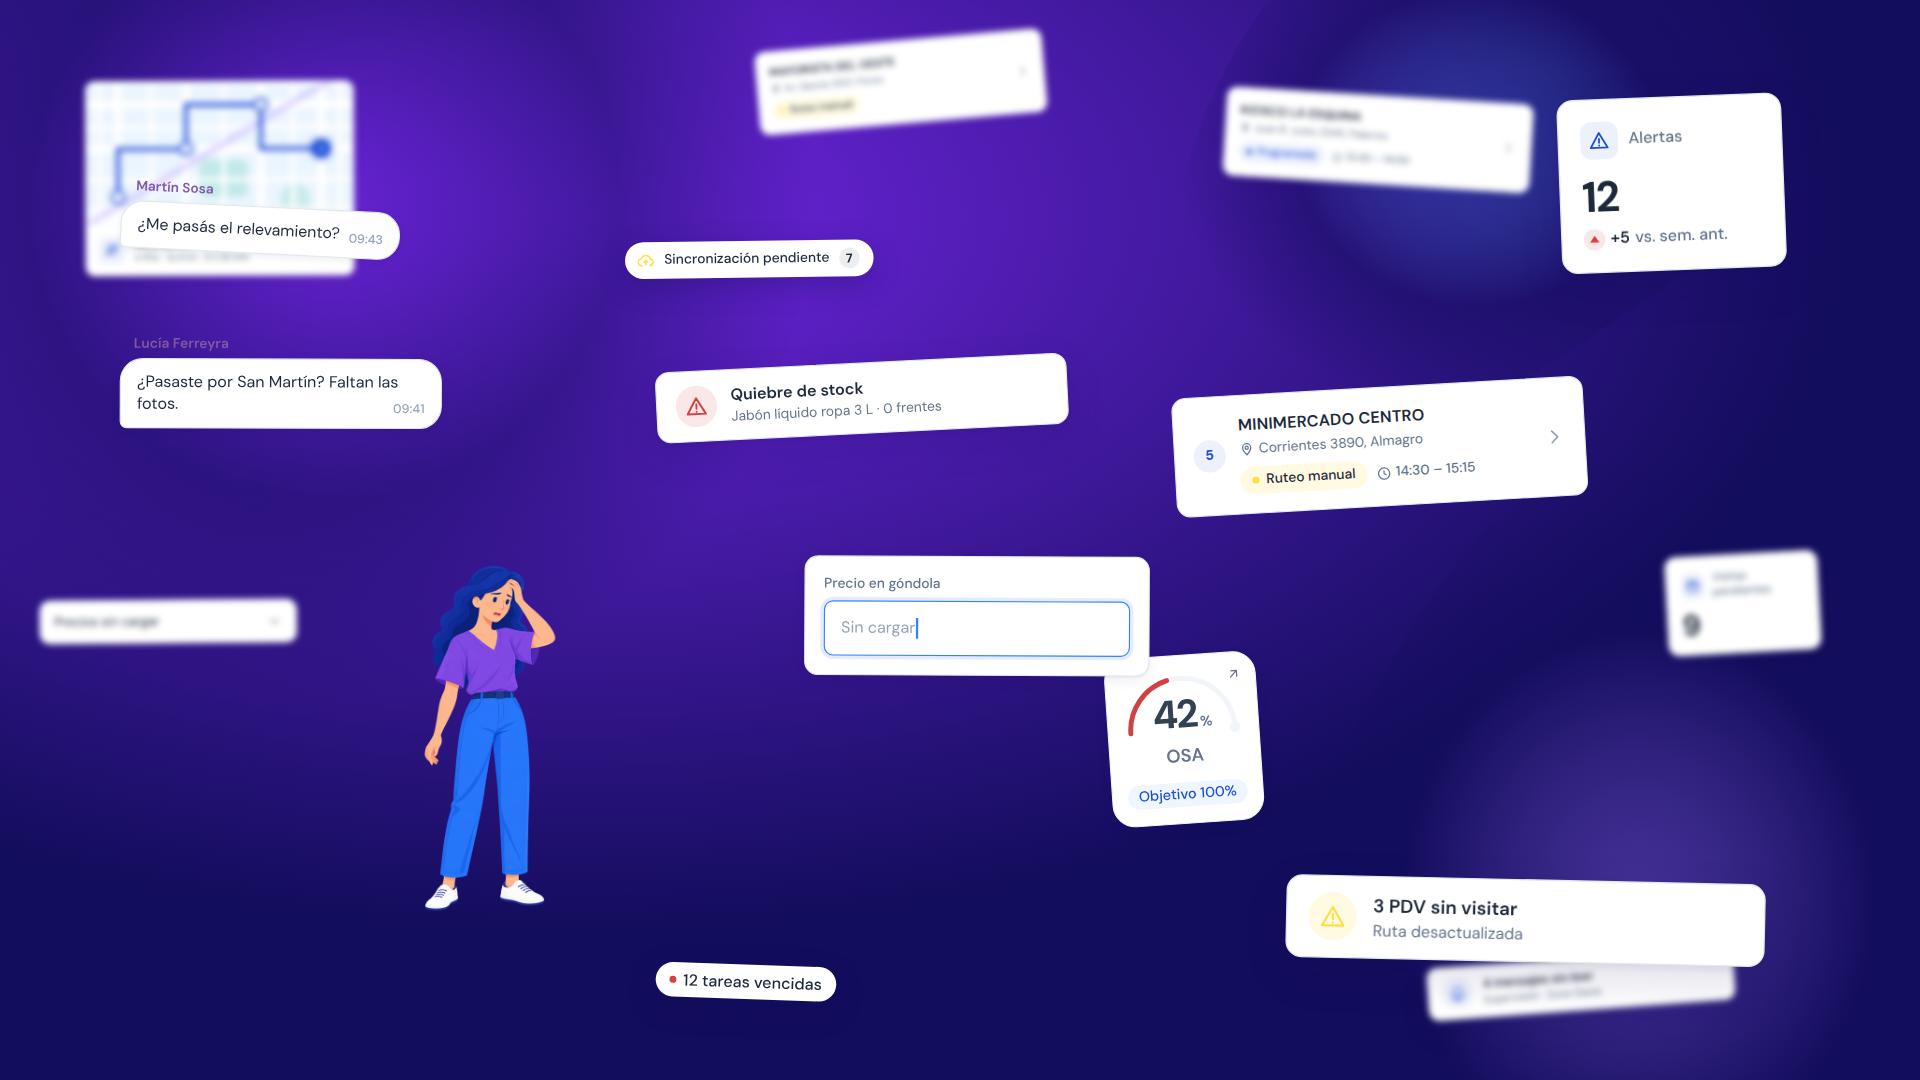
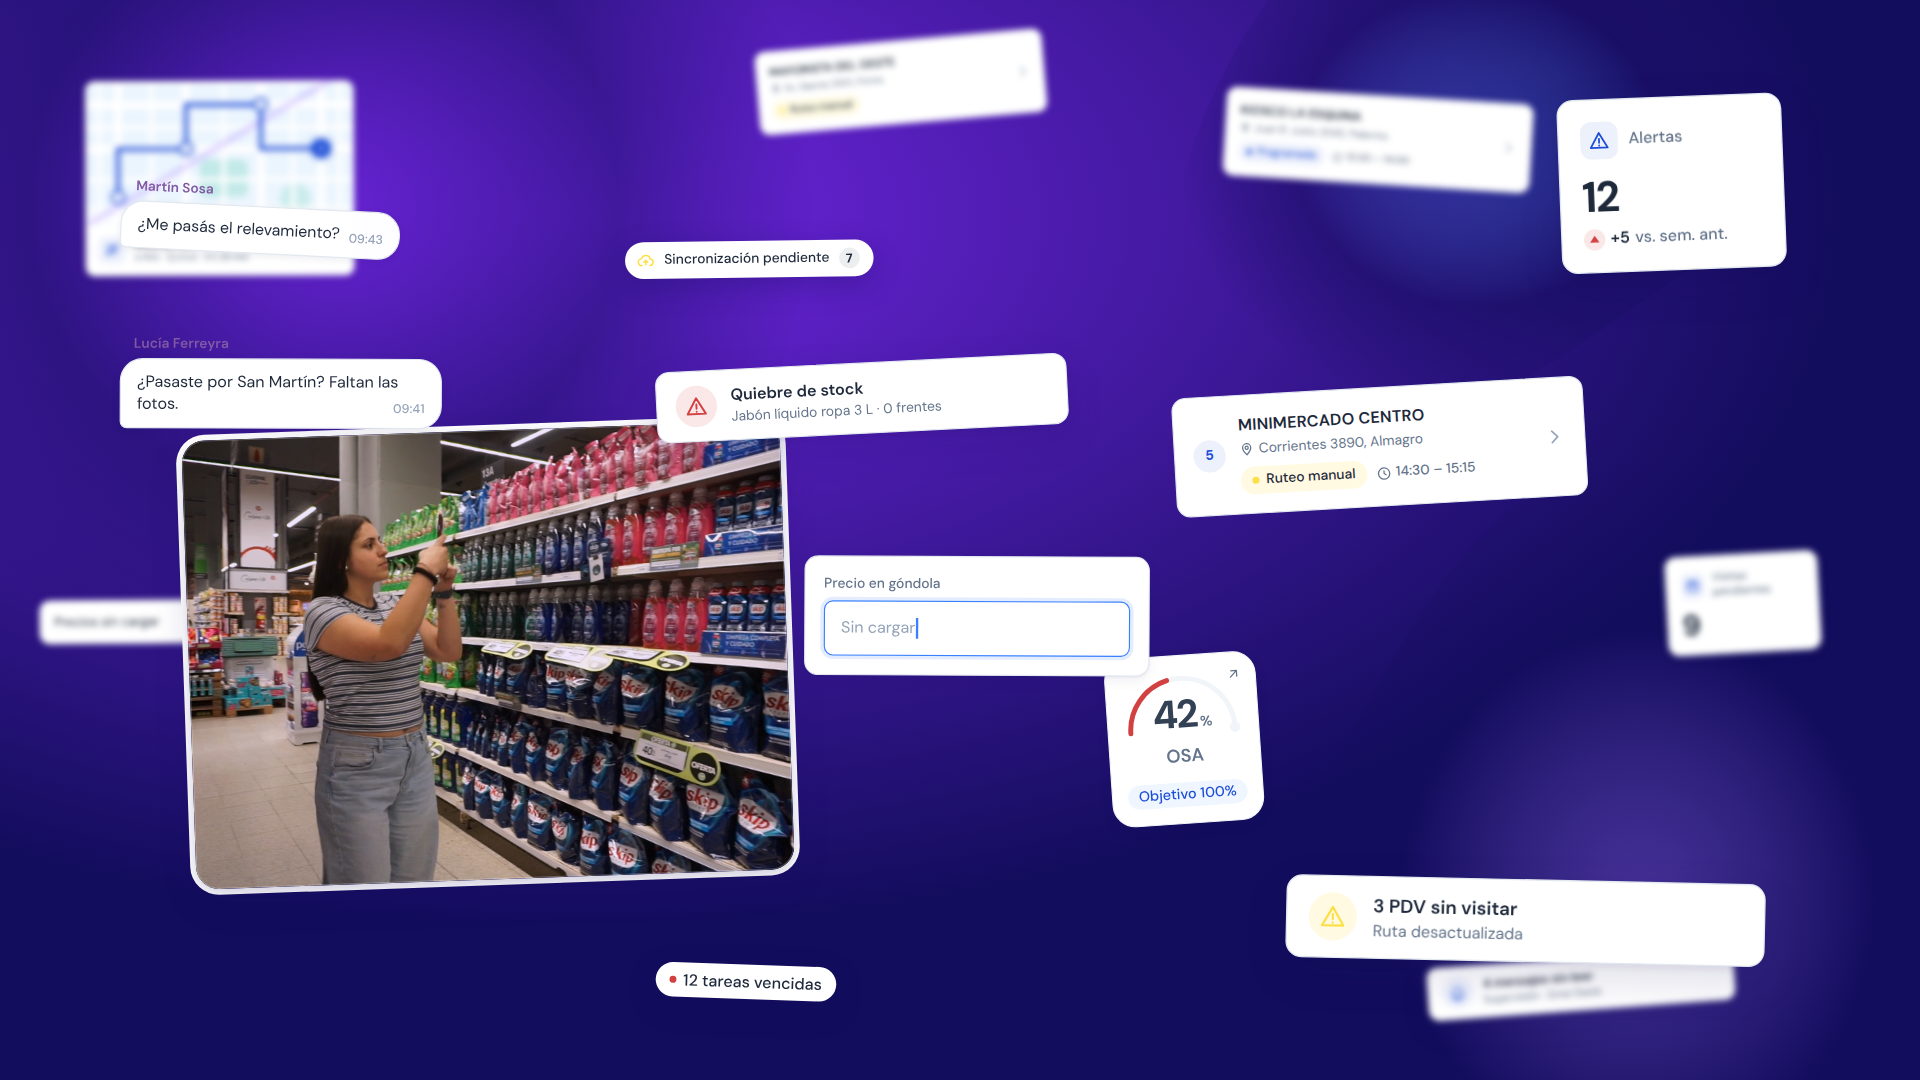
feat(qs-brand-animation): dirección v2, producto con material real de campo
- Sin personajes ilustrados: PSMob protagonista y personas reales enmascaradas
- public/footage: 2 videos (login/ingreso, pasillo/foto de góndola) y 7 fotos
- src/footage.ts con los momentos de cada clip; FootageCard (card o círculo, video o foto, playbackRate)
- Escena 1 rehecha con el pasillo real en card de video; style frame actualizado
- Storyboard: escenas 1, 3, 6 y 9 con material real, marcas reales permitidas

Claude-Session: https://claude.ai/code/session_01TCZn7RvVYdz1ZuWFcgayG7

Changed region(s): [[0.0938, 0.3667, 0.4375, 0.8556]]

diff --git a/projects/qs-brand-animation/src/ui/FootageCard.tsx b/projects/qs-brand-animation/src/ui/FootageCard.tsx
@@ -1,0 +1,68 @@
+import React from 'react';
+import { Img, OffthreadVideo, staticFile, useVideoConfig } from 'remotion';
+import { alpha, colors, radius, shadows } from '../tokens';
+import { enterStyle } from '../lib/easing';
+import { CLIPS, ClipId, PHOTOS, PhotoId } from '../footage';
+
+/** from: segundo del clip donde arranca · rate: velocidad (0.5 = cámara lenta, estira planos cortos) */
+type Source = { clip: ClipId; from?: number; rate?: number } | { photo: PhotoId };
+
+type Props = Source & {
+  width: number;
+  /** alto; si no se pasa, sale de la proporción del material */
+  height?: number;
+  shape?: 'card' | 'circle';
+  /** punto de encuadre del material (object-position), para que cara/manos/celular queden adentro */
+  focus?: string;
+  /** zoom sobre el material (1 = cover) */
+  zoom?: number;
+  progress?: number;
+  /** tinte del arco (problema = violeta leve) para integrar el material al fondo */
+  tint?: string;
+  border?: boolean;
+  style?: React.CSSProperties;
+};
+
+/**
+ * Material real enmascarado: card de video o círculo con borde blanco y sombra suave.
+ * Las personas nunca van a pantalla completa (dirección v2).
+ */
+export const FootageCard: React.FC<Props> = (props) => {
+  const { width, shape = 'card', focus = '50% 50%', zoom = 1, progress = 1, tint, border = true, style } = props;
+  const { fps } = useVideoConfig();
+  const meta = 'clip' in props ? CLIPS[props.clip] : PHOTOS[props.photo];
+  const height = props.height ?? (shape === 'circle' ? width : (width * meta.h) / meta.w);
+  const media: React.CSSProperties = {
+    width: '100%',
+    height: '100%',
+    objectFit: 'cover',
+    objectPosition: focus,
+    transform: `scale(${zoom})`,
+    transformOrigin: focus,
+    display: 'block',
+  };
+  return (
+    <div
+      style={{
+        width,
+        height,
+        borderRadius: shape === 'circle' ? '50%' : radius.lg,
+        overflow: 'hidden',
+        position: 'relative',
+        background: colors.dark,
+        boxShadow: `${shadows.float}${border ? `, 0 0 0 ${shape === 'circle' ? 6 : 5}px ${colors.white}` : ''}`,
+        isolation: 'isolate',
+        ...enterStyle(progress, 20),
+        ...style,
+      }}
+    >
+      {'clip' in props ? (
+        <OffthreadVideo src={staticFile(CLIPS[props.clip].src)} startFrom={Math.round((props.from ?? 0) * fps)} playbackRate={props.rate ?? 1} muted style={media} />
+      ) : (
+        <Img src={staticFile(PHOTOS[props.photo].src)} style={media} />
+      )}
+      {tint && <div style={{ position: 'absolute', inset: 0, background: tint, mixBlendMode: 'multiply' }} />}
+      <div style={{ position: 'absolute', inset: 0, borderRadius: 'inherit', boxShadow: `inset 0 0 0 1px ${alpha(colors.white, 0.25)}` }} />
+    </div>
+  );
+};

diff --git a/projects/qs-brand-animation/src/scenes/S01Problema.tsx b/projects/qs-brand-animation/src/scenes/S01Problema.tsx
@@ -2,15 +2,16 @@ import React from 'react';
 import { AbsoluteFill, useCurrentFrame, useVideoConfig } from 'remotion';
 import { Camera, CameraKeyframe, DepthBlur, DepthLayer, Place } from '../camera';
 import { GradientBackground } from '../shapes/GradientBackground';
-import { Character } from '../characters/Character';
+import { CLIPS } from '../footage';
+import { alpha, colors } from '../tokens';
 import { ObjectWipe } from '../transitions/ObjectWipe';
 import { drift, progressAt } from '../lib/easing';
 import { randSigned } from '../lib/random';
-import { Badge, CategoryAccordion, ChartCard, ChatBubble, FormField, GaugeCard, KPI, ListRow, MapCard, PDVS, SyncIndicator, Toast, Card } from '../ui';
+import { Badge, CategoryAccordion, ChartCard, ChatBubble, FormField, FootageCard, GaugeCard, KPI, ListRow, MapCard, PDVS, SyncIndicator, Toast, Card } from '../ui';
 
 /**
- * Escena 1 · Problema (4.5 s). Caro chica en una composición amplia; la UI de su día se acumula en profundidad.
- * La sobrecarga solo crece: Caro queda en `estres` toda la escena y las cards entran cada vez más seguido.
+ * Escena 1 · Problema (4.5 s). El pasillo real (card de video enmascarada) chico en una composición amplia;
+ * la UI del día se acumula en profundidad y lo va tapando. La sobrecarga solo crece: las cards entran cada vez más seguido.
  */
 export const S01_DURATION = 4.5;
 
@@ -73,7 +74,9 @@ export const S01Problema: React.FC = () => {
           <DepthBlur amount={3}>{layer('bg')}</DepthBlur>
         </DepthLayer>
         <DepthLayer depth="mg">
-          <Character who="caro" pose="estres" height={300} x={600} y={860} phase={0.4} />
+          <Place x={600} y={640} rotate={-2}>
+            <FootageCard clip="pasilloFoto" from={CLIPS.pasilloFoto.moments.pasillo} rate={0.5} width={520} progress={progressAt(frame, 0.1, 0.7, 'settle', fps)} tint={alpha(colors.secondary, 0.18)} />
+          </Place>
           {layer('mg')}
         </DepthLayer>
         <DepthLayer depth="fg">{layer('fg')}</DepthLayer>

diff --git a/projects/qs-brand-animation/src/footage.ts b/projects/qs-brand-animation/src/footage.ts
@@ -1,0 +1,49 @@
+/**
+ * Material real de campo (public/footage). Las personas aparecen solo acá, siempre enmascaradas.
+ * Los tiempos de cada momento están en segundos del clip original (25 fps).
+ */
+export const CLIPS = {
+  loginIngreso: {
+    src: 'footage/login-ingreso.mp4',
+    w: 1440,
+    h: 1080,
+    fps: 25,
+    duration: 17,
+    moments: {
+      /** manos con el celular: login en PSMob y carga */
+      login: 0,
+      /** pantalla azul de PSMob cargando */
+      cargando: 7,
+      /** entra al supermercado y sonríe */
+      ingreso: 14,
+    },
+  },
+  pasilloFoto: {
+    src: 'footage/pasillo-foto-gondola.mp4',
+    w: 1440,
+    h: 1080,
+    fps: 25,
+    duration: 10,
+    moments: {
+      /** pasillo abierto, góndola llena */
+      pasillo: 0,
+      /** levanta el celular y saca la foto */
+      foto: 5,
+    },
+  },
+} as const;
+
+export type ClipId = keyof typeof CLIPS;
+
+export const PHOTOS = {
+  reconocimiento: { src: 'footage/reconocimiento-en-uso.jpg', w: 2000, h: 1125 },
+  shampoo: { src: 'footage/repositora-gondola-shampoo.jpg', w: 2000, h: 1125 },
+  planograma: { src: 'footage/foto-planograma.jpg', w: 2000, h: 1125 },
+  fotografia: { src: 'footage/repositora-fotografia-gondola.jpg', w: 2000, h: 1125 },
+  sedal: { src: 'footage/repositora-sedal-sonrie.jpg', w: 2000, h: 1125 },
+  /** baja resolución (360 px): solo en tamaños chicos */
+  verticalA: { src: 'footage/foto-gondola-vertical-a.jpg', w: 360, h: 638 },
+  verticalB: { src: 'footage/foto-gondola-vertical-b.jpg', w: 360, h: 640 },
+} as const;
+
+export type PhotoId = keyof typeof PHOTOS;

diff --git a/projects/qs-brand-animation/src/ui/index.ts b/projects/qs-brand-animation/src/ui/index.ts
@@ -23,3 +23,4 @@ export * from './Gauge';
 export * from './CategoryAccordion';
 export * from './Dashboard';
 export * from './CameraScreen';
+export * from './FootageCard';

diff --git a/projects/qs-brand-animation/STORYBOARD.md b/projects/qs-brand-animation/STORYBOARD.md
@@ -2,6 +2,8 @@
 
 Fase 1. Fuente de verdad del timing: `src/timeline.ts`. Los markers de sonido salen de `src/markers.ts` (`npm run export-markers`).
 
+> **Dirección v2 (aprobada):** video de producto. PSMob es el protagonista y no hay personajes ilustrados. Las personas aparecen solo en material real de campo (`public/footage`), siempre enmascaradas en círculos, cards de video o la pantalla de un device, nunca a pantalla completa. Las marcas reales del material se dejan: es material real y tiene que verse realista.
+
 - **Duración:** 65,9 s. El brief pedía unos 68; se ajusta cuando llegue la VO.
 - **Frames:** van a 30 fps (animatic). A 60 fps se duplican; los segundos no cambian.
 - **Cámara:** `x`, `y` en px de mundo (1920×1080, centro 960/540) y `zoom`. Curva `easeInOut` salvo que se indique otra.
@@ -10,17 +12,17 @@ Fase 1. Fuente de verdad del timing: `src/timeline.ts`. Los markers de sonido sa
 
 ## Resumen
 
-| # | Escena | s | frames @30 | Entrada | Salida | Overlap | Personajes |
+| # | Escena | s | frames @30 | Entrada | Salida | Overlap | Material real |
 |---|---|---|---|---|---|---|---|
-| 1 | Problema | 0.0–4.5 | 0–134 | — | object wipe (card) | 0 | Caro |
+| 1 | Problema | 0.0–4.5 | 0–134 | — | object wipe (card) | 0 | pasillo (video B 0–4 s) |
 | 2 | Complejidad | 4.5–8.5 | 135–254 | object wipe | shape morph (compresión) | 0 | — |
-| 3 | Aparece QuartzSales | 8.5–13.0 | 255–389 | shape morph | zoom through | 0 | — |
+| 3 | Aparece QuartzSales | 8.5–13.0 | 255–389 | shape morph | zoom through | 0 | login en PSMob (video A 0–6 s) |
 | 4 | Planificación | 13.0–18.0 | 390–539 | zoom through | match cut (pin) | 0 | — |
 | 5 | Ruteo | 18.0–23.0 | 540–689 | match cut | shape morph (línea de ruta) | 0.4 | — |
-| 6 | Comunicación | 22.6–27.6 | 678–827 | shape morph | shape morph (mensaje → form) | 0.4 | Nico fg · Caro bg |
+| 6 | Comunicación | 22.6–27.6 | 678–827 | shape morph | shape morph (mensaje → form) | 0.4 | 2 avatares circulares (fotos 7 y 10) |
 | 7 | Captura de datos | 27.2–32.2 | 816–965 | shape morph | push-out | 0.3 | — |
 | 8 | Tiempo real | 31.9–37.9 | 957–1136 | push-out | shape morph (gráfico → góndola) | 0.5 | — |
-| 9 | AiFred | 37.4–42.4 | 1122–1271 | shape morph | zoom through | 0 | Nico |
+| 9 | AiFred | 37.4–42.4 | 1122–1271 | shape morph | zoom through | 0 | foto de góndola (video B 5–9 s) + foto 6 |
 | 10 | Visión artificial | 42.4–49.4 | 1272–1481 | zoom through | match cut | 0 | — |
 | 11 | Offline | 49.4–54.4 | 1482–1631 | match cut | push-out | 0 | — |
 | 12 | Ecosistema | 54.4–59.4 | 1632–1781 | push-out | shape morph (colapso) | 0 | — |
@@ -54,7 +56,7 @@ Cada morph toma el comportamiento del objeto que se transforma. Ninguno repite c
 
 ## 1 · Problema — 0.0–4.5 s (f 0–134)
 
-**Qué pasa:** Caro aparece chica en una composición amplia sobre violeta oscuro. A su alrededor aparecen, en profundidad, cards reales: ListRow de visitas, Toast de alertas, FormField, KPI y MapCard. La cámara hace push-in y las cards se multiplican. Al final, una card pasa delante de cámara y cubre el frame.
+**Qué pasa:** en el tercio izquierdo hay una card de video enmascarada con el pasillo real (video B 0–4 s), chica dentro de una composición amplia sobre violeta oscuro: la góndola y su complejidad. A su alrededor aparecen, en profundidad, cards reales: ListRow de visitas, Toast de alertas, FormField, KPI y MapCard. La cámara hace push-in y las cards se multiplican hasta tapar parte del video: la sobrecarga la cuenta la UI. Al final, una card pasa delante de cámara y cubre el frame.
 
 - **Cámara**
   - t0: `960, 560, z 0.9`
@@ -63,7 +65,7 @@ Cada morph toma el comportamiento del objeto que se transforma. Ninguno repite c
 - **Capas**
   - sky: `GradientBackground arc="problem"`
   - bg: 6–8 cards chicas sobre tercios, con DepthBlur (única capa con blur)
-  - mg: Caro en `estres` toda la escena (sin swap: la sobrecarga solo crece), a 300 px de alto, en el tercio izquierdo, y 3 cards cercanas que la van rodeando
+  - mg: `FootageCard` 4:3 del pasillo (video B desde 0 s), 520 px de ancho y radius lg, en el tercio izquierdo. La rodean 3 cards cercanas; la sobrecarga solo crece.
   - fg: 2 cards grandes que cruzan con drift
 - **Salida:** `ObjectWipe` de la card ChartCard `bars` desde (1320, 330), t3.6 → 4.5. Esa card es el primer plano de la escena 2.
 - **Markers:** 0.6 cardEntry · 1.4 cardEntry · 2.2 notification · 3.0 cardEntry · 3.9 whoosh
@@ -136,7 +138,7 @@ Cada morph toma el comportamiento del objeto que se transforma. Ninguno repite c
 
 ## 6 · Comunicación — 22.6–27.6 s (f 678–827)
 
-**Qué pasa:** un elemento del mapa se transforma en burbuja de chat. Nico está en foreground y Caro más atrás; los mensajes flotan entre los dos y el teléfono queda como elemento intermedio. No van uno a cada lado.
+**Qué pasa:** un elemento del mapa se transforma en burbuja de chat. El chat de PSMob es el protagonista. Dos avatares circulares con material real quedan en profundidades distintas, no uno a cada lado: la repositora en góndola (foto 10) en foreground grande y la supervisión (foto 7) chica al fondo. Los mensajes viajan entre los dos pasando por el teléfono.
 
 - **Cámara**
   - t0: `960, 540, z 1.1`
@@ -144,9 +146,9 @@ Cada morph toma el comportamiento del objeto que se transforma. Ninguno repite c
   - t5: `1040, 520, z 1.05`
 - **Capas**
   - sky: solución
-  - bg: Caro `celular-sonriendo`, 380 px de alto, en (1450, 900)
+  - bg: `FootageCard` circular (foto 7), 220 px, en (1450, 860)
   - mg: Phone a escala 0.8 con ChatScreen en (1160, 540) y ChatBubbles flotando entre los dos
-  - fg: Nico `celular`, 820 px de alto, en (560, 1180). El recorte de abajo es intencional y solo afecta a las piernas: cara, manos y celular quedan completos dentro del safe area (margen del 5 %).
+  - fg: `FootageCard` circular (foto 10), 460 px, en (520, 700). Cara, mano y celular quedan completos dentro del círculo y del safe area (margen del 5 %).
 - **Kinetic type:** "Optimiza la comunicación", headline 96/800, en el tercio superior izquierdo, t2.4 → 4.2 (entra por palabras)
 - **Salida:** shape morph del mensaje al form, t4.4 → 5. La última ChatBubble se interpola hasta el rect de la Card de formulario.
 - **Markers:** 0.3 notification · 1.4 notification · 2.4 cardEntry
@@ -187,7 +189,7 @@ Cada morph toma el comportamiento del objeto que se transforma. Ninguno repite c
 
 ## 9 · AiFred — 37.4–42.4 s (f 1122–1271)
 
-**Qué pasa:** entorno de supermercado. Nico entra caminando con travelling lateral, sobre góndolas con `Shelf` a escala real (sin marcas ni texto legible; lavandina 25 cm, crema dental 11,5 cm). Levanta el celular y la cámara hace zoom through.
+**Qué pasa:** góndola real. Una card de video grande con el video B (5–9 s) muestra a la repositora levantando el celular y sacando la foto; alrededor flotan un ScanLine y chips de categoría. En t3.2 hay un match cut a la foto 6 (el reconocimiento de PSMob en uso, con el celular de frente) y la cámara hace zoom through a esa pantalla.
 
 - **Cámara**
   - t0: `600, 540, z 1`
@@ -195,11 +197,11 @@ Cada morph toma el comportamiento del objeto que se transforma. Ninguno repite c
   - t3.4: hold
   - t5: `zoomToRect(pantalla del celular)`
 - **Capas**
-  - sky: pasillo (gradiente claro con 2 góndolas de fondo)
-  - bg: Shelf × 2 con parallax 0.5
-  - mg: góndola principal (lavandina, ropa, cuidado personal)
-  - fg: Nico. Usa `CharacterWalk` en t0 → 3.2 y después hace swap a `producto-celular` → `celular`.
-- **Salida:** zoom through al celular de Nico. En t3.4 swap a `mostrando-celu` (PNG aprobado con el celular de frente) y la cámara entra al rect de su pantalla, medido en `poses.ts` (`screen`). No se usa ningún teléfono inclinado.
+  - sky: solución
+  - bg: Shelf a escala real con parallax 0.5 (continuidad del gráfico → góndola de la escena 8)
+  - mg: `FootageCard` 4:3 con el video B (desde 5 s), 1040 px de ancho
+  - fg: chips de categoría (Cuidado personal, Lavandina) y un contador "Fotos 3/5"
+- **Salida:** zoom through a la pantalla del celular de la foto 6. La foto se endereza unos grados para que el teléfono quede frontal y la cámara entra al rect medido de su pantalla. La escena 10 arranca con `CameraScreen` a escala 1 en ese mismo rect.
 - **Markers:** 0.3 whoosh · 3.4 tap · 4.6 whoosh
 
 ## 10 · Visión artificial — 42.4–49.4 s (f 1272–1481)
@@ -286,7 +288,7 @@ AiFred se presenta como IA aplicada: nada aparece de golpe.
 
 ## Pendientes y decisiones abiertas
 
-- **Caminata (escena 9):** resuelta. Hay un ciclo de 6 fotogramas por personaje y el travelling va a `walkSpeed()`, validado en `WalkLab`.
-- **Nico con el celular de frente (escena 9 → 10):** se usa `nico/mostrando-celu`. Falta confirmar que ese es el PNG aprobado para el zoom through.
+- **Personajes ilustrados:** fuera del video (dirección v2). El código (`Character`, `CharacterWalk`, `WalkLab`) queda en el repo sin usarse en las escenas.
+- **Material real:** 2 videos (login e ingreso, pasillo y foto de góndola) y 7 fotos en `public/footage` (registro en `src/footage.ts`). Las fotos 4 y 5 son de baja resolución (360 px): solo sirven en tamaños chicos, por ejemplo en el muro de videos. Si hay más clips cortos de campo (charla con supervisión, carga de formulario, góndola con quiebre), suman para las escenas 2, 6 y 12.
 - **Música:** los cortes se alinean al beat cuando llegue el BPM. Los markers están en `markers.ts`.
 - **Duración total:** 65,9 s contra los 68 del brief. Hay margen para estirar holds (escenas 4, 10 y 14) cuando esté la VO.

diff --git a/projects/qs-brand-animation/README.md b/projects/qs-brand-animation/README.md
@@ -32,6 +32,7 @@ Todo está cargado en `/public`: logos oficiales, 19 poses de Caro, 17 de Nico (
 
 - **Poses:** `src/characters/poses.ts` guarda el bounding box de cada pose. `<Character height={…}>` escala de forma uniforme para que la figura mida lo mismo de pie en todas las poses, con los pies en `y`. Las poses sentadas y la caída usan un factor aproximado.
 - **Caminata:** `<CharacterWalk frames={WALK_FRAMES.nico}>` recorre el ciclo de 6 fotogramas (contacto y paso alternados). `walkSpeed(height)` da la velocidad del travelling que acompaña la zancada sin que los pies patinen. Se valida en la composición `WalkLab`.
+- **Material real:** 2 videos y 7 fotos de campo en `public/footage`, registrados en `src/footage.ts` con los segundos de cada momento. `<FootageCard clip|photo>` los muestra siempre enmascarados en card o círculo; las personas nunca van a pantalla completa. Los personajes ilustrados ya no se usan en las escenas (dirección v2).
 - **Productos:** `src/ui/products.ts` guarda la categoría y la altura real (cm) de cada producto. `<Product>` y `<Shelf>` dibujan a escala real, así que una crema dental no mide lo mismo que una lavandina. `<ProductThumb>` es la miniatura para listas. Las alturas son aproximadas y se pueden ajustar.
 - **Indicadores:** `<Gauge>` es el medio círculo de `indicadores_svg`, con valor coloreado por estado y un punto que marca el objetivo. Tiene tres variantes: `GaugeCard` (fondo claro), `GaugeTile` (sobre el header) e `IndicatorCard` (resumen de la home). El color sale del cumplimiento del objetivo (valor ÷ objetivo): verde solo si llega al 100 %, amarillo de 50 % a 99 % y rojo por debajo de 50 %. Sin objetivo, el indicador va en azul neutral.
 - **Isotipo:** `src/brand/isoPaths.ts` separa el SVG oficial en 20 triángulos (uno por subpath) para la escena 13, sin redibujar nada. `<IsoTriangles triangle={(i) => …}>` los anima por separado.
